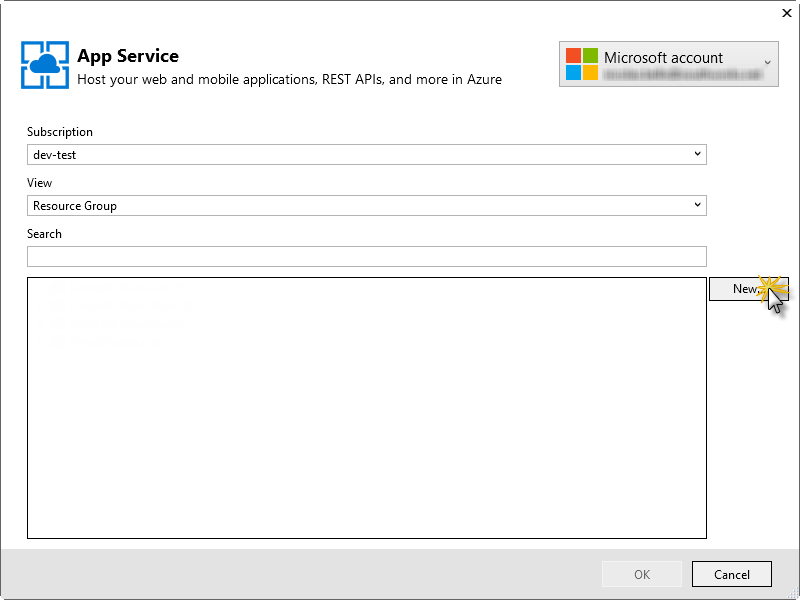
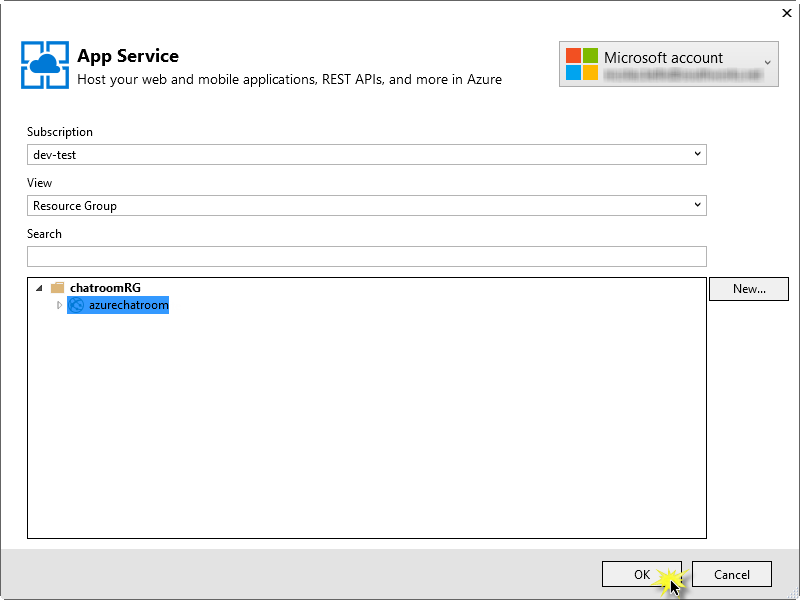
Removed Azure Web App setting from VS Community version of AzureDeployAndDebug demo

Changed region(s): [[0.0625, 0.45, 0.2188, 0.54], [0.7812, 0.93, 0.875, 1.0], [0.9375, 0.45, 1.0, 0.54]]

diff --git a/Presentation/AzureDeployAndDebug/AzureDeployAndDebug/Demo-VSCommunity.md b/Presentation/AzureDeployAndDebug/AzureDeployAndDebug/Demo-VSCommunity.md
@@ -132,17 +132,11 @@ This demo is composed of the following segments:
 
 	_Selecting Microsoft Azure App Service as publish target_
 
-1. In the App Service dialog box, click **New...** to create a new App Service.
+1. In the App Service dialog box, select the Web App you created in the previous step and click **OK**
 
 	![Selecting the target App Service](images/VSCommunity/selecting-the-target-app-service.png?raw=true "Selecting the target App Service")
 
 	_Selecting the target App Service_
-
-1. Complete all the fields in the **Create App Service** dialog box and click **Create**.
-
-	![Creating a new App Service](images/VSCommunity/creating-a-new-app-service.png?raw=true "Creating a new App Service")
-
-	_Creating a new App Service_
 
 1. In the Publish Web dialog box, click **Publish**.
 
@@ -150,33 +144,7 @@ This demo is composed of the following segments:
 
 	_Publishing the Web App_
 
-1. Open a web browser and navigate to the [Azure Portal](https://portal.azure.com/).
-
-1. In the Azure Portal locate your new App Service and open the **Settings** blade.
-
-	![Navigating to the settings blade](images/VSCommunity/navigating-to-the-settings-blade.png?raw=true "Navigating to the settings blade")
-
-	_Navigating to the settings blade_
-
-1. In the **Settings** blade, select **Application settings**.
-
-1. In the **Web app settings** blade, make sure **v4.6** is selected in **.NET Framework version** and click **On** in **Web sockets**.
-
-	![Enabling Web sockets](images/VSCommunity/enabling-web-sockets.png?raw=true "Enabling Web sockets")
-
-	_Enabling Web sockets_
-
-1. Scroll down to the **App settings** section and add **DOCUMENT_DB_HOST** and **DOCUMENT_DB_AUTH_KEY** keys with the URI and PRIMARY KEY values from the DocumentDB account created in the Setup section.
-
-	![Adding the DocumentDB settings](images/VSCommunity/adding-the-documentdb-settings.png?raw=true "Adding the DocumentDB settings")
-
-	_Adding the DocumentDB settings_
-
-1. Click **Save** at the top of the **Web app settings** blade and navigate to the site using two browser instances.
-
-	![Saving the new settings](images/VSCommunity/saving-the-new-settings.png?raw=true "Saving the new settings")
-
-	_Saving the new settings_
+1. Navigate to the site using two browser instances.
 
 1. Introduce a message from each browser instance and show that it is being broadcasted to the other instance.
 
@@ -187,7 +155,7 @@ This demo is composed of the following segments:
 <a name="segment3" />
 ### Deploying to Azure with GitHub ###
 
-1. Go back to the [Azure Portal](https://portal.azure.com/). In the Settings blade of your Web App, locate the **Publishing** section and click **Continuous deployment**.
+1. Go to the [Azure Portal](https://portal.azure.com/). In the Settings blade of your Web App, locate the **Publishing** section and click **Continuous deployment**.
 
 	![Setting up continuous deployment](images/VSCommunity/setting-up-continuos-deployment.png?raw=true "Setting up continuous deployment")
 
